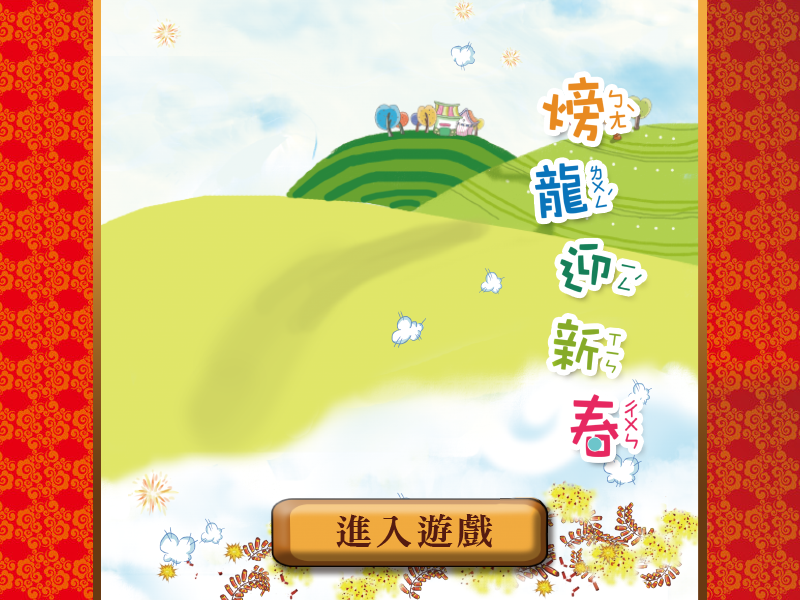
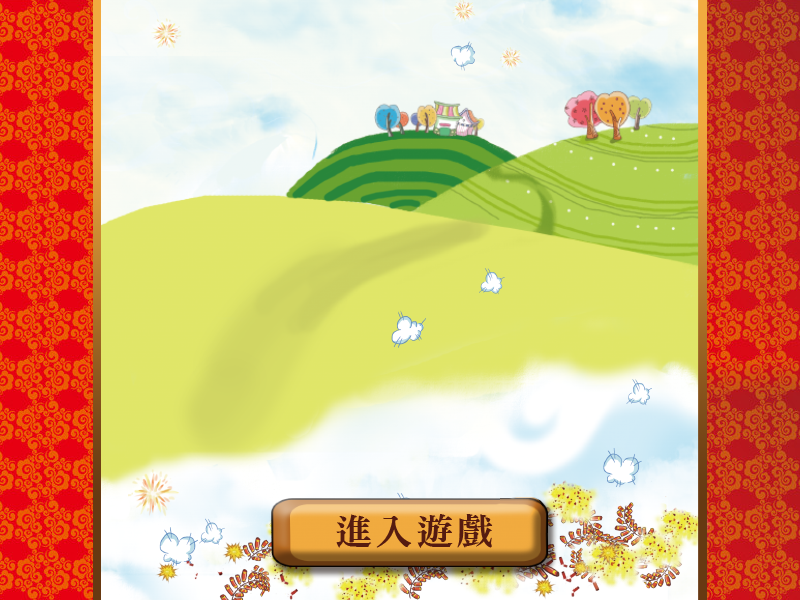
Change the background image and words.

Changed region(s): [[0.6562, 0.12, 0.8125, 0.63], [0.7188, 0.66, 0.8125, 0.78]]

diff --git a/index.html b/index.html
@@ -414,6 +414,7 @@
 			_exploSrc: "images/04-explosion.gif",
 			_personInterval: null,
 			_oldmanInterval: null,
+			_fruitInterval: null,
 			_processInterval: null,
 			_showInterval: null,
 			_showSeconds: 3,
@@ -468,12 +469,17 @@
 						moveObj.addClass('pos-old');
 					}
 				},3500);
+				this._fruitInterval = setInterval(function(){
+
+				}, 1000);
 				moveObj.show();
 			},
 			_stopOldmanMove:function(){
 				var moveObj = $('#oldman_move');
 				clearInterval(this._oldmanInterval);
+				clearInterval(this._fruitInterval);
 				this._oldmanInterval = null;
+				this._fruitInterval = null;
 				moveObj.removeClass('pos-old to-move-old');
 				moveObj.hide();
 			},
@@ -635,6 +641,7 @@
 				this._oldmanInterval = null;
 				this._processInterval = null;
 				this._showInterval = null;
+				this._fruitInterval = null;
 				this._showSeconds = 3;
 				this._limitSeconds = 20;
 				this._bombProcessAll = [];
@@ -1289,14 +1296,21 @@
   		</div>
 	</div>
   	<div id="stage_1" class="stage stage-intro">
+  		
   		<div class="intro-back">
   			<img src="images/01-intro-back.png" width="100%" />
   		</div>
+  		<!-- <div class="intro-back-tmp">
+  			<img src="images/01-intro-back-tmp.png" width="100%" />
+  		</div> -->
   		<div class="intro-dragon">
   			<img src="images/01-intro-dragon.gif" width="100%" />
   		</div>
   		<div class="intro-girl">
   			<img src="images/01-intro-girl.gif" width="100%" />
+  		</div>
+  		<div class="intro-word">
+  			<img src="images/01-intro-word.png" width="100%" />
   		</div>
   		<div class="next-stage button-intro-enter"></div>
 

diff --git a/css/dragon.css b/css/dragon.css
@@ -214,13 +214,19 @@ input:focus{
   top: 0;
   width: 100%;
 }
+.intro-back-tmp{
+  position: absolute;
+  opacity: 0.5;
+  left: 0;
+  top: 0;
+  width: 100%; 
+}
 
 .intro-dragon{
   position: absolute;
-  left: 93px;
-  top: 35px;
+  left: 123px;
+  top: 23px;
   width: 440px;
-  /*height: 460px;  */
 }
 
 .intro-girl{
@@ -229,6 +235,13 @@ input:focus{
   top: 330px;
   width: 130px;
   /*height: 140px; */
+}
+
+.intro-word{
+  position: absolute;
+  left: 509px;
+  top: 67px;
+  width: 128px;
 }
 
 .intro-firework{
